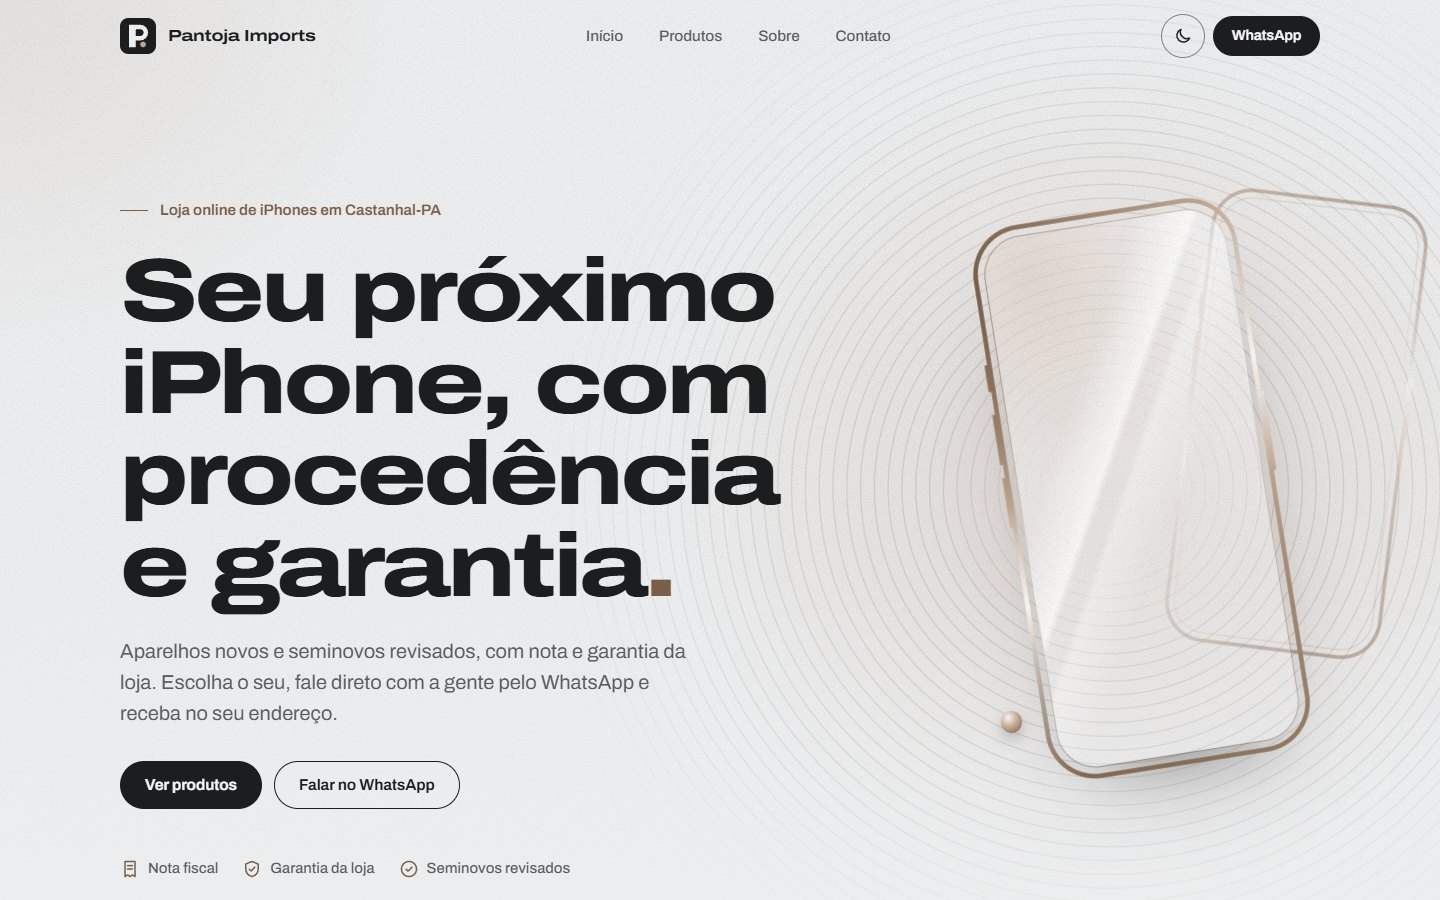
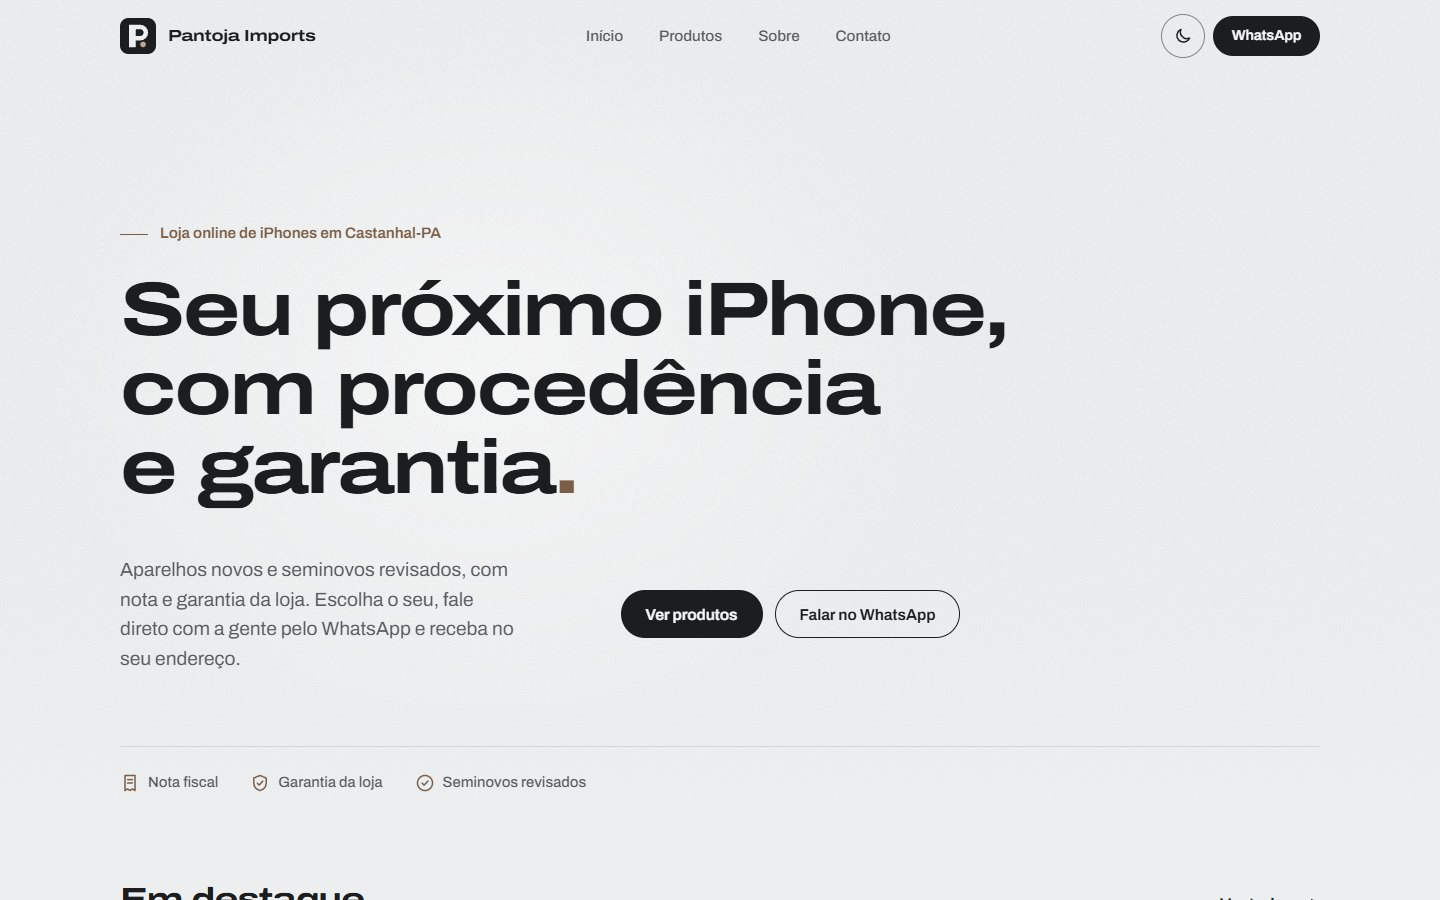
README e screenshots atualizados com o novo hero
- Documenta o hero tipográfico, o padrão das fotos e o modo recorte
  (campos recorte e corHex)
- Screenshots de docs/ refeitas

diff --git a/README.md b/README.md
@@ -12,7 +12,8 @@ Vitrine online de uma loja de iPhones novos e seminovos em Castanhal-PA. Site es
 
 - **Catálogo a partir de dados**: os cards, os filtros por condição (novos, seminovos, acessórios) e os contadores são gerados a partir de uma lista de produtos.
 - **Faixa "Em destaque"** com os produtos marcados como destaque; a seção some quando não há nenhum.
-- **Galeria por produto**: arrastar no celular, indicadores no computador e miniaturas na tela de detalhes. Produtos sem foto mostram um fundo neutro com o monograma da loja.
+- **Galeria por produto**: arrastar no celular, indicadores no computador e miniaturas na tela de detalhes. Toda foto segue o mesmo enquadramento (4:5, preenchendo e centralizada). Produtos sem foto mostram um fundo neutro com o monograma da loja.
+- **Modo recorte**: fotos com fundo transparente mostram o aparelho inteiro, centralizado, sobre um tom da cor dele.
 - **Detalhes do produto em `<dialog>`**, que vira uma gaveta de baixo para cima no celular.
 - **Pedido pelo WhatsApp**: cada botão abre a conversa com modelo, armazenamento, cor, condição e preço já preenchidos. Avaliação de troca e consulta de entrega têm mensagens próprias.
 - **Bloco "Como funciona a entrega"** (área atendida, prazo, taxa e pagamento) alimentado pela configuração; campos vazios não aparecem.
@@ -28,11 +29,12 @@ Vitrine online de uma loja de iPhones novos e seminovos em Castanhal-PA. Site es
 - **Mensagem de WhatsApp montada dinamicamente.** Os links usam `wa.me` com o texto gerado a partir do produto e codificado com `encodeURIComponent`. O número fica num único lugar.
 - **`<dialog>` nativo para os detalhes.** `showModal()` já entrega foco preso dentro do modal, fechamento com Esc e fundo com `::backdrop`, sem biblioteca de modal.
 - **`@property` para animar cores.** As cores do acabamento metálico são registradas como `<color>`. Assim o navegador consegue interpolá-las e os gradientes que dependem delas fazem a transição na troca de tema em vez de pular. Medindo com o trace do Chrome, propriedades registradas fazem as animações rodarem na thread principal, por isso as animações do site são curtas e só acontecem na entrada (nada fica animando sem parar).
-- **Decoração em SVG usada como máscara CSS.** Os SVGs de `assets/decor/` definem só a forma; a cor vem do `background`, então o mesmo arquivo funciona nos dois temas. As máscaras do topo são pré-carregadas com `crossorigin`, porque o navegador busca máscaras em modo CORS.
+- **Hero só com tipografia.** Sem foto nem ilustração: o título é o ponto de foco, com cada frase numa linha no computador, sobre fundo liso e um brilho neutro muito sutil.
+- **Decoração em SVG usada como máscara CSS.** Os SVGs de `assets/decor/` definem só a forma; a cor vem do `background`, então o mesmo arquivo funciona nos dois temas.
 - **Acessibilidade.** Link para pular ao conteúdo, foco visível, `aria-pressed` nos filtros, `aria-live` na grade, textos alternativos gerados a partir do produto, alvos de toque com no mínimo 44px, contraste AA e elementos decorativos com `aria-hidden`.
 - **Modo escuro.** Cores em custom properties, trocadas por `prefers-color-scheme` ou pelo atributo `data-theme`. Um script inline no `<head>` aplica o tema salvo antes do CSS (sem "piscar" o tema errado) e a `theme-color` da barra do navegador acompanha.
 - **`prefers-reduced-motion`.** Desliga as animações de entrada, o revelar ao rolar, o brilho da decoração e a rolagem suave.
-- **Desempenho.** Fonte variável Archivo hospedada no próprio site (um arquivo para textos e títulos expandidos, com `preload`), imagens WebP com `width`/`height` declarados e carregamento sob demanda, e cache configurado no `_headers`. No Lighthouse em perfil de celular (medição local): 95 em desempenho e 100 em acessibilidade, boas práticas e SEO, com CLS 0.
+- **Desempenho.** Fonte variável Archivo hospedada no próprio site (um arquivo para textos e títulos expandidos, com `preload`), imagens WebP com `width`/`height` declarados e carregamento sob demanda, e cache configurado no `_headers`. No Lighthouse em perfil de celular (medição local): 96 em desempenho e 100 em acessibilidade, boas práticas e SEO, com CLS 0.
 
 ## Estrutura de pastas
 
@@ -49,7 +51,7 @@ pantoja-imports/
 └── assets/
     ├── fontes/           Archivo (fonte variável)
     ├── produtos/         fotos dos aparelhos (WebP 1200x1500)
-    ├── decor/            SVGs decorativos usados como máscara (usinado, moldura, régua, granulado)
+    ├── decor/            SVGs decorativos usados como máscara (usinado, régua, granulado)
     ├── icone-conceitos/  conceitos alternativos do ícone e prancha de comparação
     ├── logo.svg          ícone da loja (fonte dos PNGs)
     ├── favicon.svg       ícone da aba, ajustado para 16px
@@ -85,9 +87,11 @@ Depois, acesse `http://localhost:8000`. Abrir o `index.html` direto do disco tam
 | `selo` | etiqueta curta sobre a foto (ex.: `'Oportunidade'`) |
 | `destaque` | `true` inclui o produto na faixa "Em destaque" |
 | `fotos` | caminhos em `assets/produtos/`; a primeira é a principal. Aceita `{ src, alt }` |
+| `recorte` | `true` quando as fotos têm fundo transparente: o aparelho aparece inteiro sobre a cor dele |
+| `corHex` | cor do aparelho em hexadecimal (ex.: `'#efcfcd'`), usada no fundo do modo recorte |
 | `detalhes` | itens listados na tela de detalhes |
 
-Fotos: WebP, 1200x1500 px (4:5), nomes sem espaço nem acento.
+Fotos: WebP, 1200x1500 px (4:5), nomes sem espaço nem acento. Para o modo recorte, use PNG ou WebP com fundo transparente e o aparelho ocupando a maior parte do quadro.
 
 **Dados da loja** ficam no objeto `CONFIG`, no topo do `script.js`: nome, número do WhatsApp (só dígitos, com DDI e DDD), Instagram e outras redes, horário de atendimento, dados de entrega (`entrega.area`, `entrega.prazo`, `entrega.taxa`, `entrega.pagamento`), CNPJ, texto de parcelamento e as mensagens prontas do WhatsApp. Todos os botões usam esses valores automaticamente.
 
@@ -98,7 +102,7 @@ Fotos: WebP, 1200x1500 px (4:5), nomes sem espaço nem acento.
 - Título, descrição e Open Graph ficam no `<head>` do `index.html`.
 - Cores, espaçamentos e raios ficam no bloco `:root` do `style.css`, com as cores do tema escuro logo abaixo.
 - Os PNGs do ícone são exportados a partir de `assets/logo.svg`.
-- Para usar uma foto no topo da página, adicione a classe `hero--com-foto` na seção do hero e descomente o bloco `<figure class="hero__foto">`. O layout passa a ter duas colunas e a decoração dá lugar à foto.
+- Para usar uma foto no topo da página, adicione a classe `hero--com-foto` na seção do hero e descomente o bloco `<figure class="hero__foto">`. O layout passa a ter duas colunas, com o texto à esquerda e a foto à direita.
 
 ## Deploy
 
